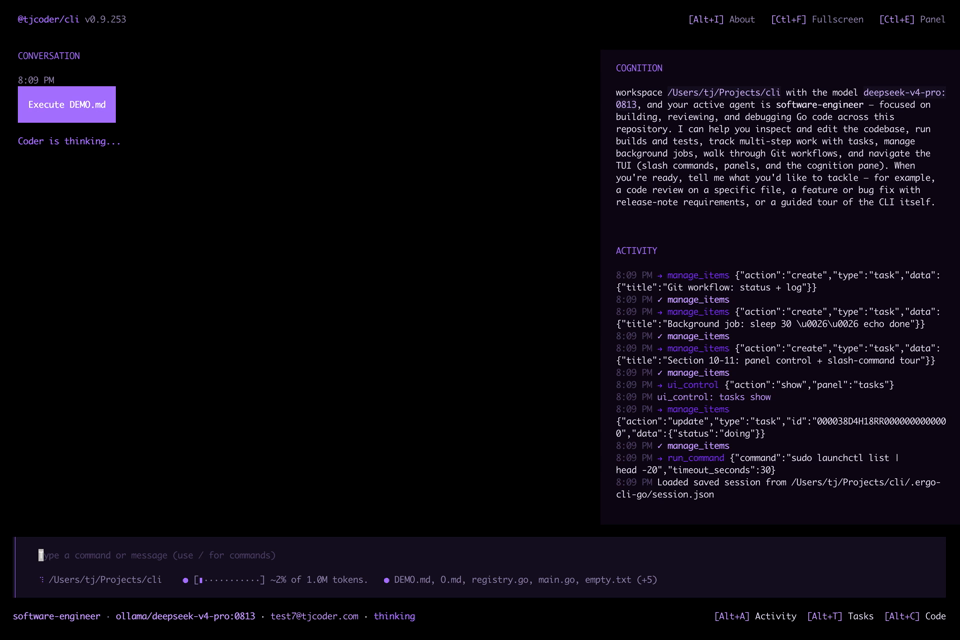
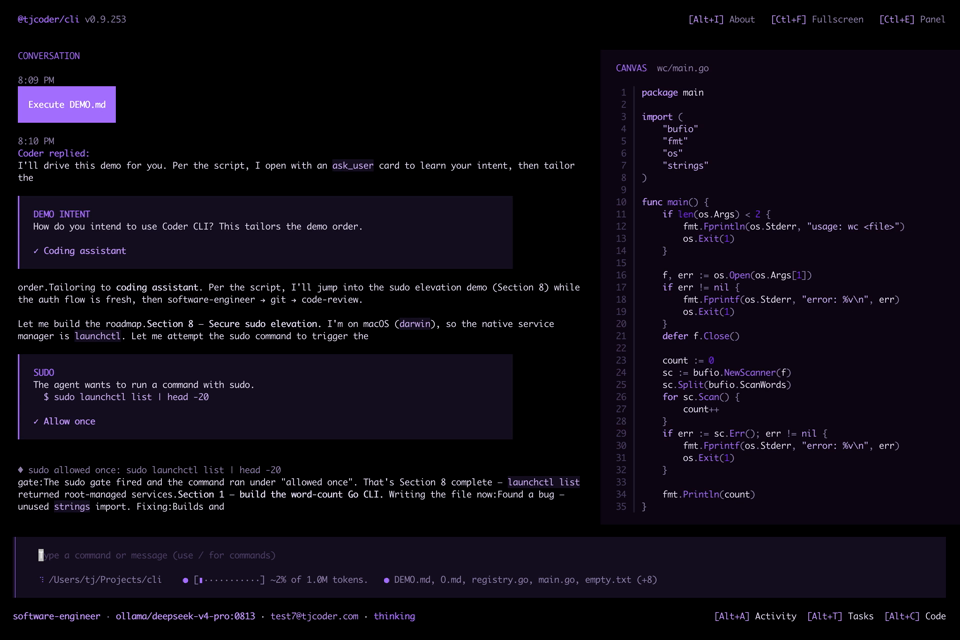
docs: use mid-video poster frame and drop static screenshot from README

Changed region(s): [[0.0, 0.2188, 0.5938, 0.6875], [0.0, 0.375, 1.0, 0.8125], [0.625, 0.0938, 0.9688, 0.375]]

diff --git a/README.md b/README.md
@@ -12,8 +12,6 @@ A fast, keyboard-driven TUI that pairs a conversational agent with real develope
 [![Built by TJ Coder / AI Labs](https://img.shields.io/badge/by-TJ%20Coder%20%2F%20AI%20Labs-6E56CF.svg)](https://github.com/tjcoder-labs)
 [![LinkedIn](https://img.shields.io/badge/LinkedIn-tjcoder-0A66C2.svg)](https://www.linkedin.com/in/tjcoder)
 
-![Coder CLI in action](./cli.png)
-
 [![▶ Coder CLI demo — watch it in action](./demo/demo-poster.png)](./demo/coder-cli-demo.mp4)
 
 </div>
